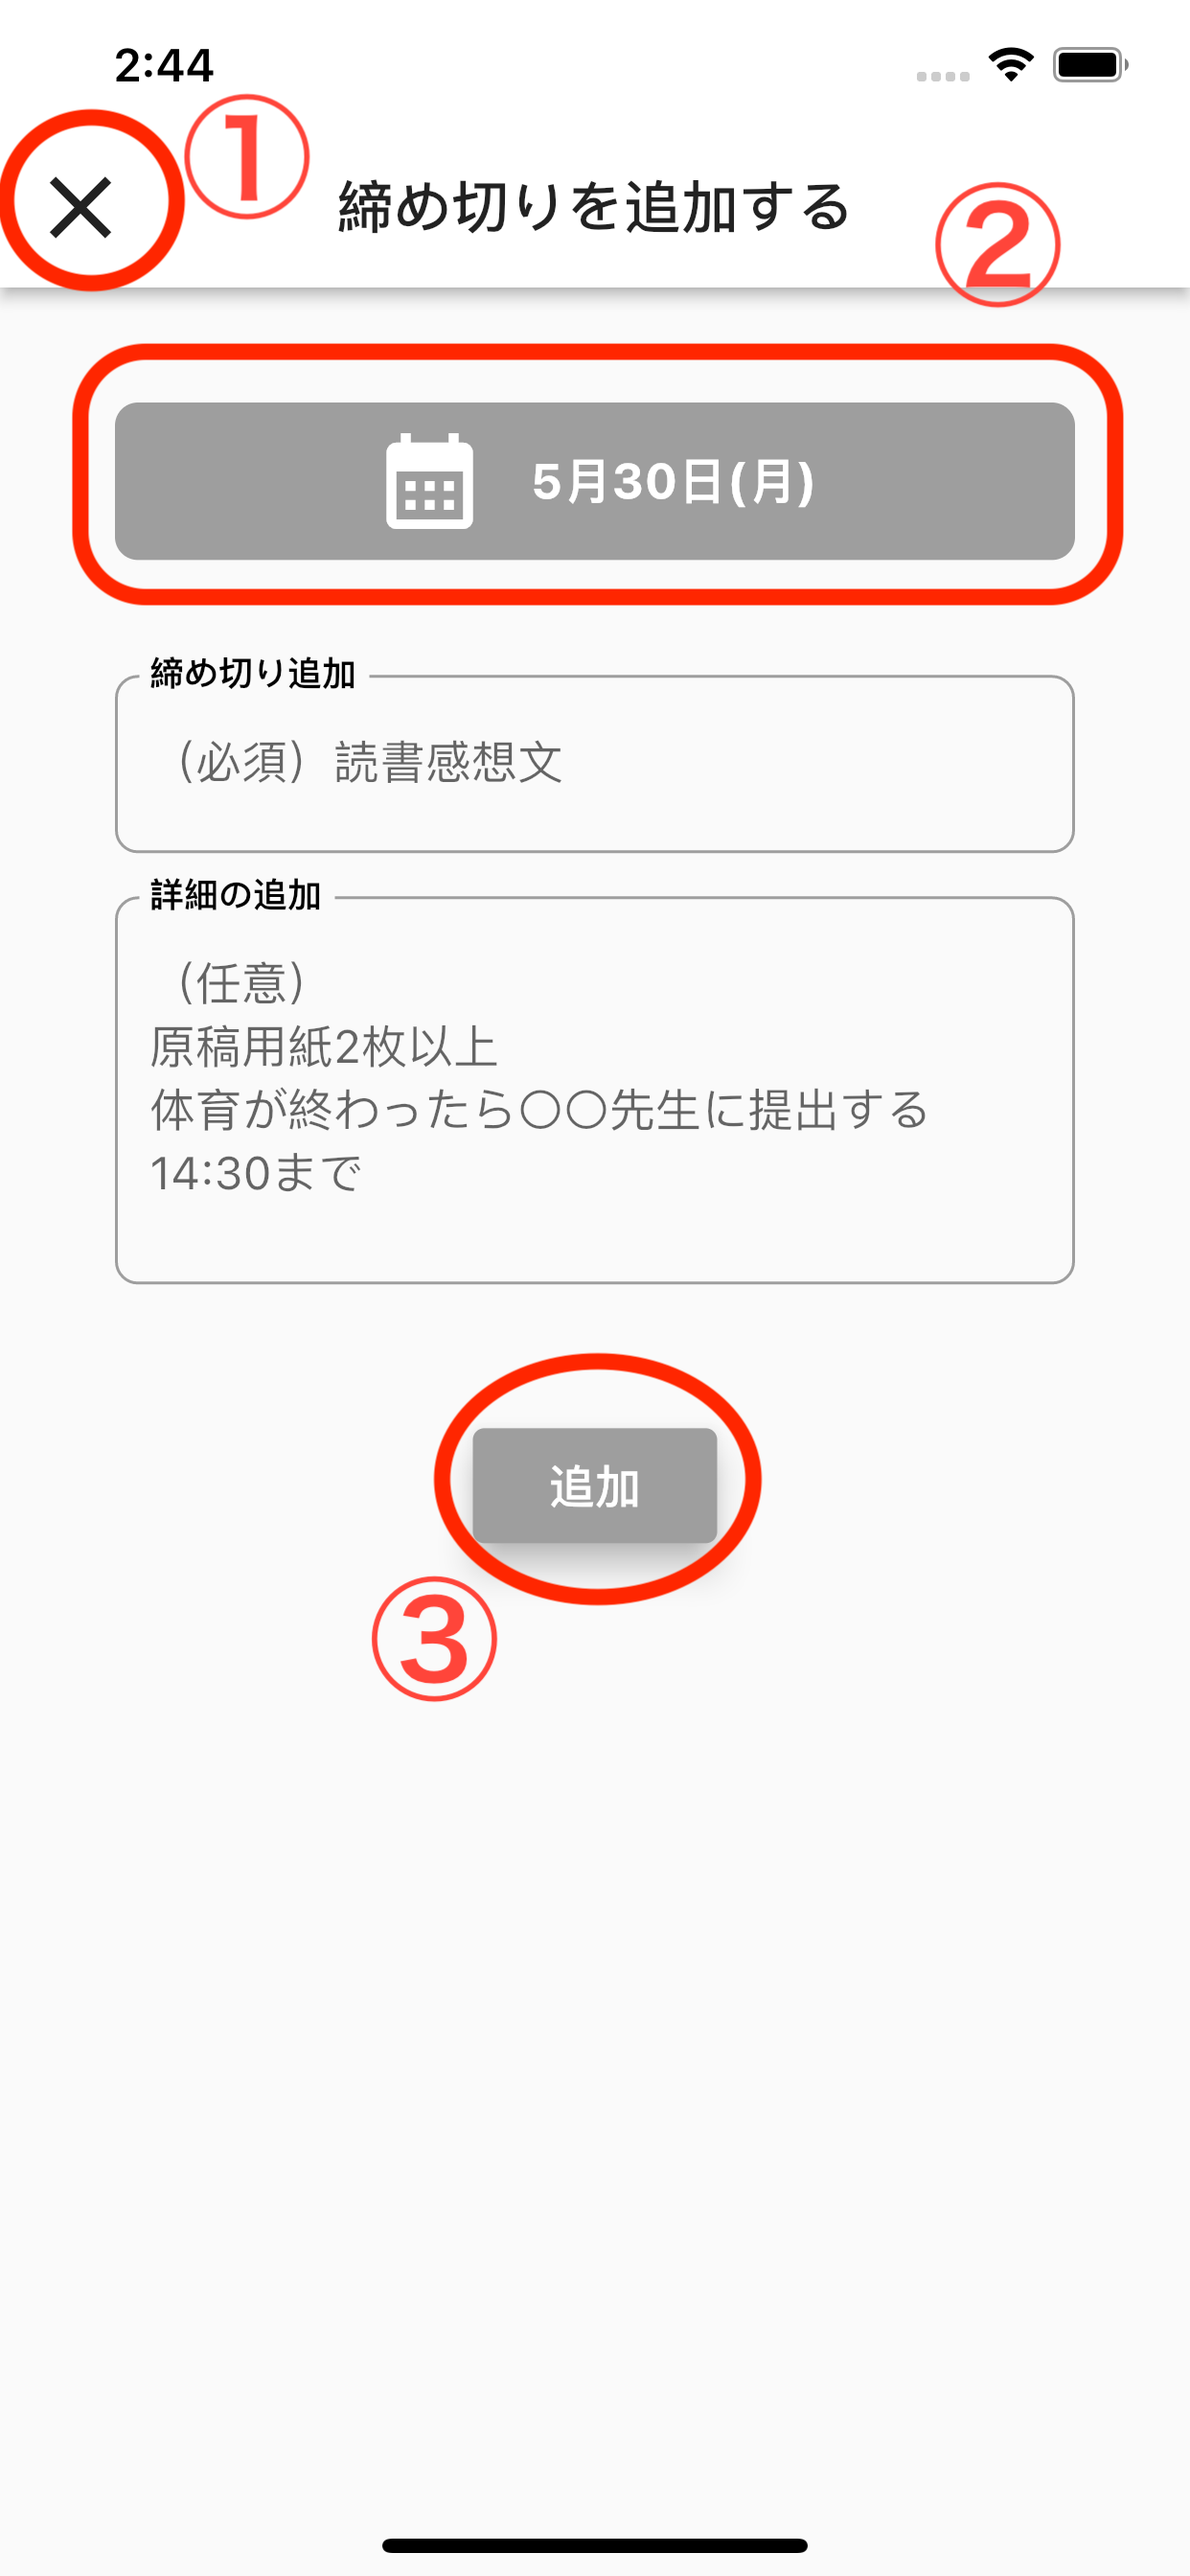
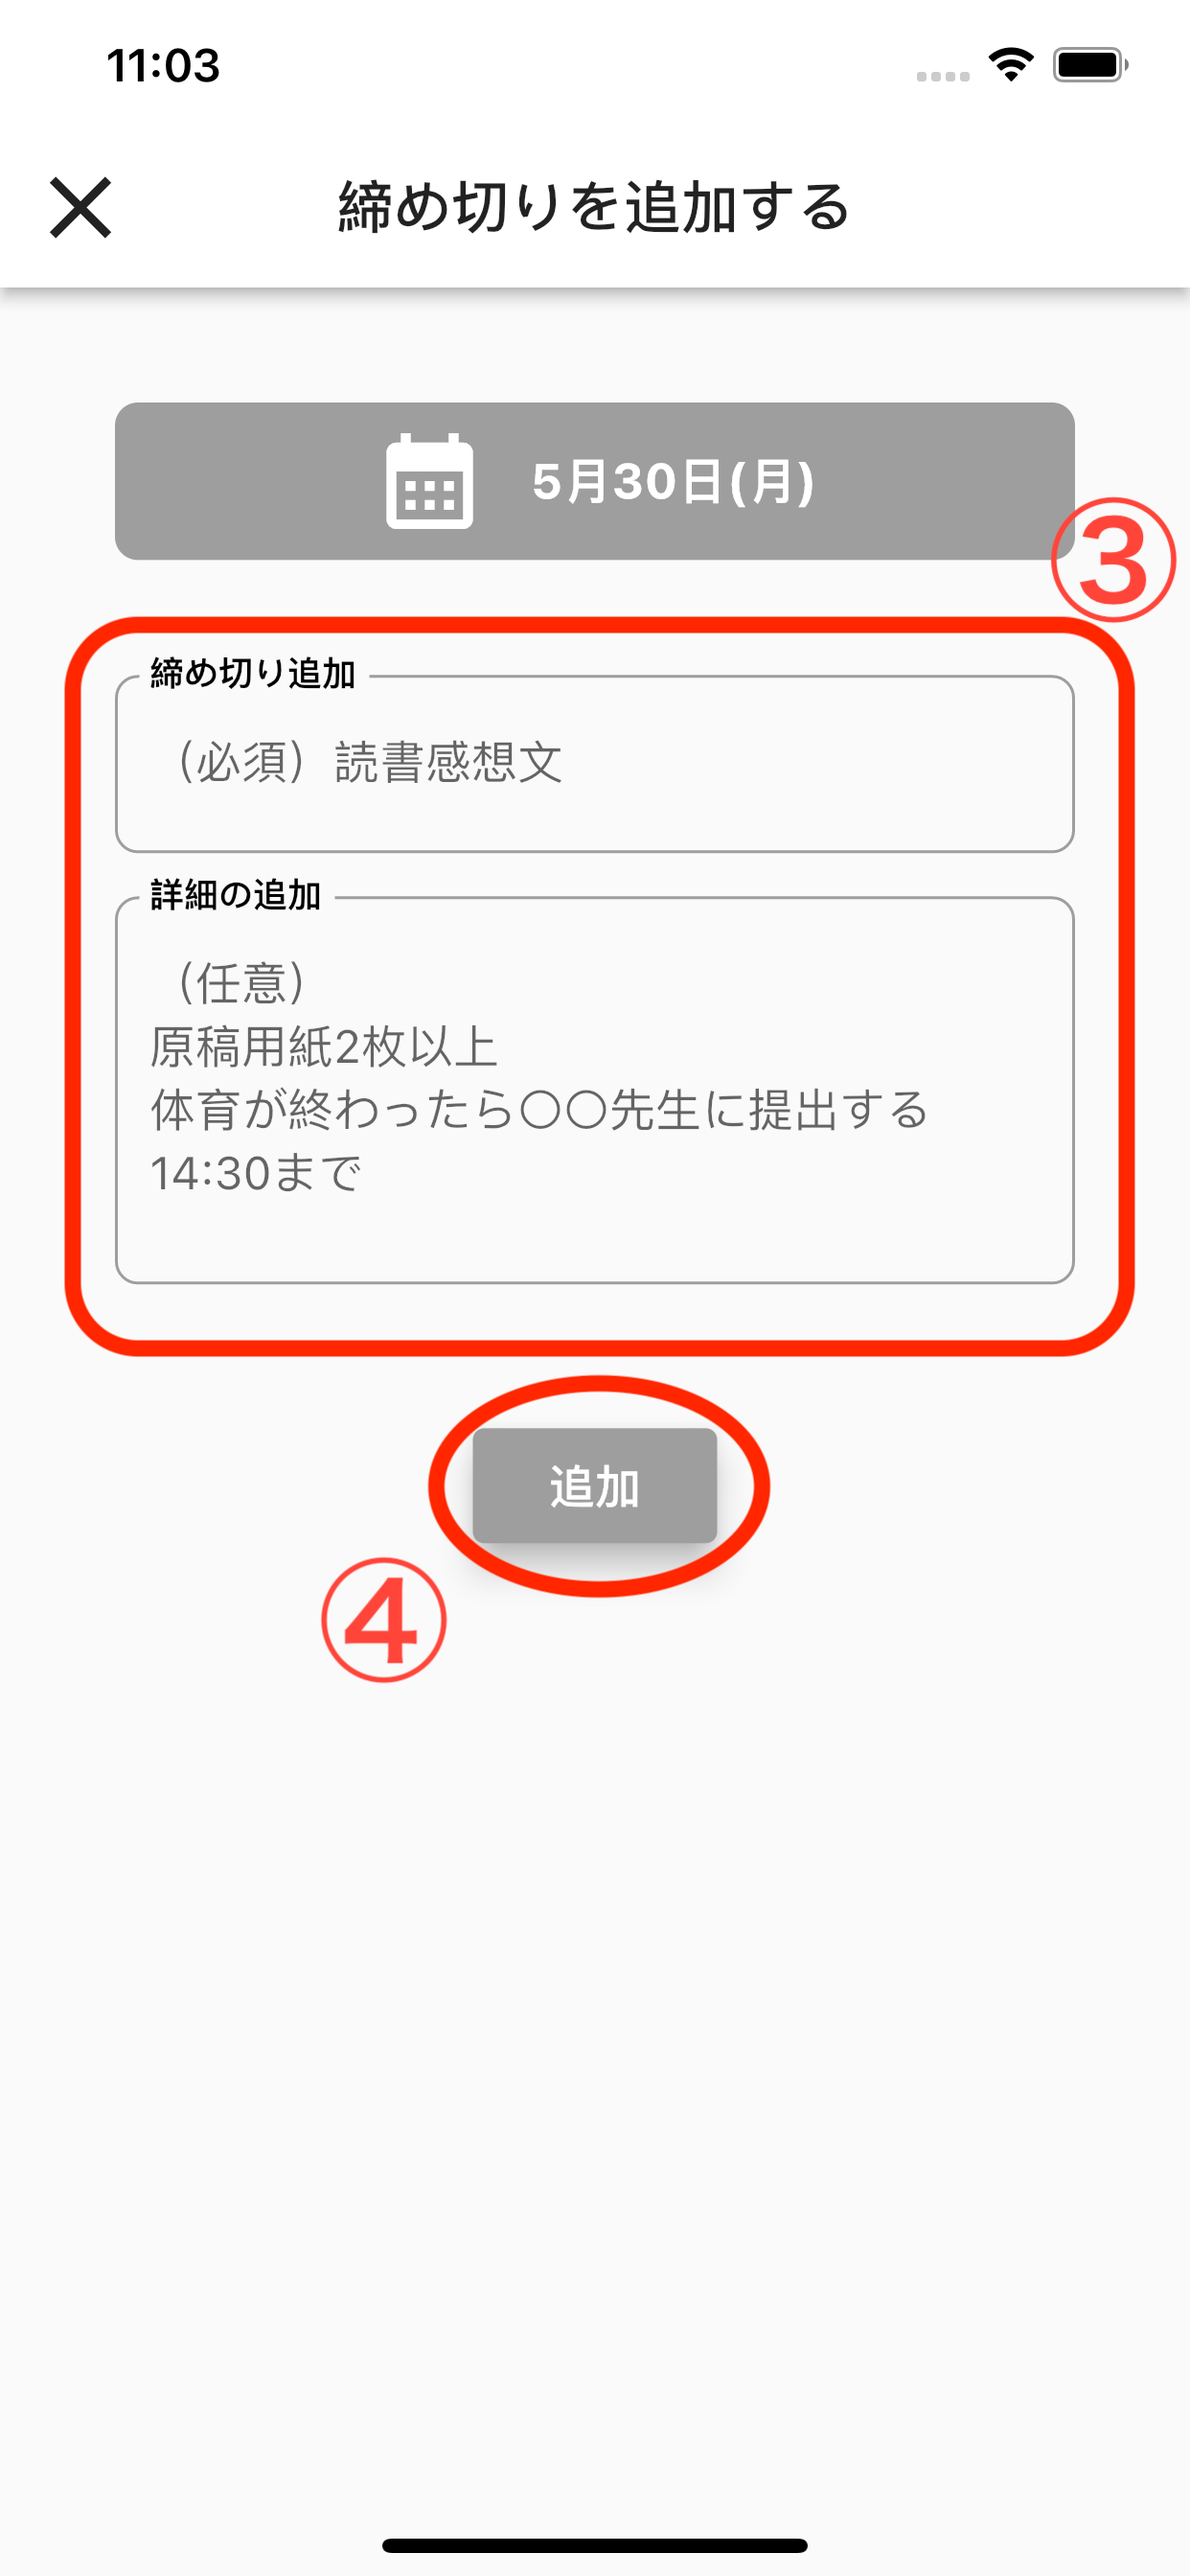
add how to use screen

Changed region(s): [[0.0, 0.0, 1.0, 0.6562]]

diff --git a/lib/screens/setting_pages/how_to_use/how_to_use.dart b/lib/screens/setting_pages/how_to_use/how_to_use.dart
@@ -1,7 +1,6 @@
 import 'package:flutter/material.dart';
 
 class HowToUseScreen extends StatelessWidget {
-
   static const String id = 'howToUse';
 
   @override
@@ -9,10 +8,8 @@ class HowToUseScreen extends StatelessWidget {
     return Scaffold(
       appBar: AppBar(
         backgroundColor: Theme.of(context).primaryColor,
-        title: Text(
-          "アプリの使い方",
-            style: TextStyle(color: Theme.of(context).selectedRowColor)
-        ),
+        title: Text("アプリの使い方",
+            style: TextStyle(color: Theme.of(context).selectedRowColor)),
         leading: IconButton(
           onPressed: () => Navigator.pop(context),
           icon: Icon(
@@ -21,34 +18,117 @@ class HowToUseScreen extends StatelessWidget {
           ),
         ),
       ),
-
       body: Center(
         child: Container(
           width: MediaQuery.of(context).size.width * 0.85,
-          child: SingleChildScrollView(
-            child: Column(
-              children: [
-                // Image.asset('images/home_add.png'),
-                _imageContainer(context,'images/home_add.png'),
-                _imageContainer(context,'images/home_add.png'),
-              ],
+          child: Scrollbar(
+            child: SingleChildScrollView(
+              child: Column(
+                children: [
+                  _spaceS(),
+                  _titleText("1.タスク追加"),
+                  _spaceS(),
+                  _imageContainer(context, 'images/home_add.png'),
+                  _spaceS(),
+                  _text("①からタスクを追加したい日付を選択し、②の＋ボタンを押す"),
+                  _spaceS(),
+                  _bottomArrow(),
+                  _spaceS(),
+                  _imageContainer(context, 'images/add_screen.png'),
+                  _spaceS(),
+                  _text("③にタスク（必要なら詳細）を入力して、④で追加する"),
+                  _spaceL(),
+                  _titleText("2.タスクの編集"),
+                  _spaceS(),
+                  _imageContainer(context, 'images/home_edit.png'),
+                  _spaceS(),
+                  _text("編集したい日付の①をタップする"),
+                  _spaceS(),
+                  _bottomArrow(),
+                  _spaceS(),
+                  _imageContainer(context, 'images/edit_screen.png'),
+                  _spaceS(),
+                  _text("③で入力内容を編集し、④で変更を決定する"),
+                  _text("* ②でタスクを削除する"),
+                  _spaceL(),
+                  _titleText("3.着せ替えの実装"),
+                  _spaceS(),
+                  _imageContainer(context, 'images/change_color.png'),
+                  _spaceS(),
+                  _text("設定 > テーマの着せ替え"),
+                  _text("①で着せ替えをしたい色を選び、②で変更を決定する"),
+                  _spaceL(),
+                  _titleText("4.通知の設定"),
+                  _spaceS(),
+                  _imageContainer(context, 'images/notification_on.png'),
+                  _spaceS(),
+                  _text("①で通知のオンオフを設定する"),
+                  _text("通知をオンにしている場合には、②をタップすると通知を受け取る時間を指定することができる"),
+                  _spaceL(),
+                  _spaceL(),
+                ],
+              ),
             ),
           ),
         ),
       ),
-
     );
   }
 
-  Widget _imageContainer(context,String imagePath) {
+
+
+  Widget _imageContainer(context, String imagePath) {
     return Container(
       height: MediaQuery.of(context).size.height * 0.7,
-        decoration: BoxDecoration(
-            //画像の外枠に黒線をつける
-            border: Border.all(width: 1)
-        ),
+      decoration: BoxDecoration(
+          //画像の外枠に黒線をつける
+          border: Border.all(width: 1)),
       child: Image.asset(imagePath),
     );
+  }
+
+  Widget _spaceS() {
+    return SizedBox(
+      height: 20,
+    );
+  }
+
+  Widget _spaceL() {
+    return SizedBox(
+      height: 40,
+    );
+  }
+
+  Widget _lineSpace() {
+    return SizedBox(
+      height: 5,
+    );
+  }
+
+
+
+  Widget _text(String text) {
+    return Align(
+      alignment: Alignment.centerLeft,
+      child: Text(
+        text,
+        style: TextStyle(fontSize: 17),
+      ),
+    );
+  }
+
+  Widget _titleText(String text) {
+    return Align(
+      alignment: Alignment.centerLeft,
+      child: Text(
+        text,
+        style: TextStyle(fontSize: 25),
+      ),
+    );
+  }
+
+  Widget _bottomArrow() {
+    return Text("↓",style: TextStyle(fontSize: 40));
   }
 
 }

diff --git a/lib/screens/add_event_screen.dart b/lib/screens/add_event_screen.dart
@@ -66,7 +66,7 @@ class _AddEventScreenState extends ConsumerState<AddEventScreen> {
         backgroundColor: Theme.of(context).primaryColor,
         title: Text(
           //編集か追加でボタンのテキストを変える
-          arguments!.isUpdate ? '締め切りを編集する' : '締め切りを追加する',
+          arguments!.isUpdate ? 'タスクを編集する' : 'タスクを追加する',
           style: TextStyle(color: Theme.of(context).selectedRowColor),
         ),
         leading: IconButton(
@@ -184,7 +184,7 @@ class _AddEventScreenState extends ConsumerState<AddEventScreen> {
                   ),
 
                   //編集か追加でヒント、ラベルテキストを変える
-                  labelText: arguments.isUpdate ? '締め切り変更' : '締め切り追加',
+                  labelText: arguments.isUpdate ? 'タスク変更' : 'タスク追加',
                   hintText: arguments.isUpdate ? null : '（必須）読書感想文',
 
                   //ラベルテキスト枠の上に固定する

diff --git a/lib/screens/calendar_screen.dart b/lib/screens/calendar_screen.dart
@@ -181,7 +181,7 @@ class _CalendarScreenState extends ConsumerState<CalendarScreen> {
                       child: Center(
                         child: Text(
                           DateFormat.MMMEd('ja').format(_selectedDay) +
-                              'の締め切りはありません',
+                              'のタスクはありません',
                           style: TextStyle(fontSize: 16),
                         ),
                       ),
